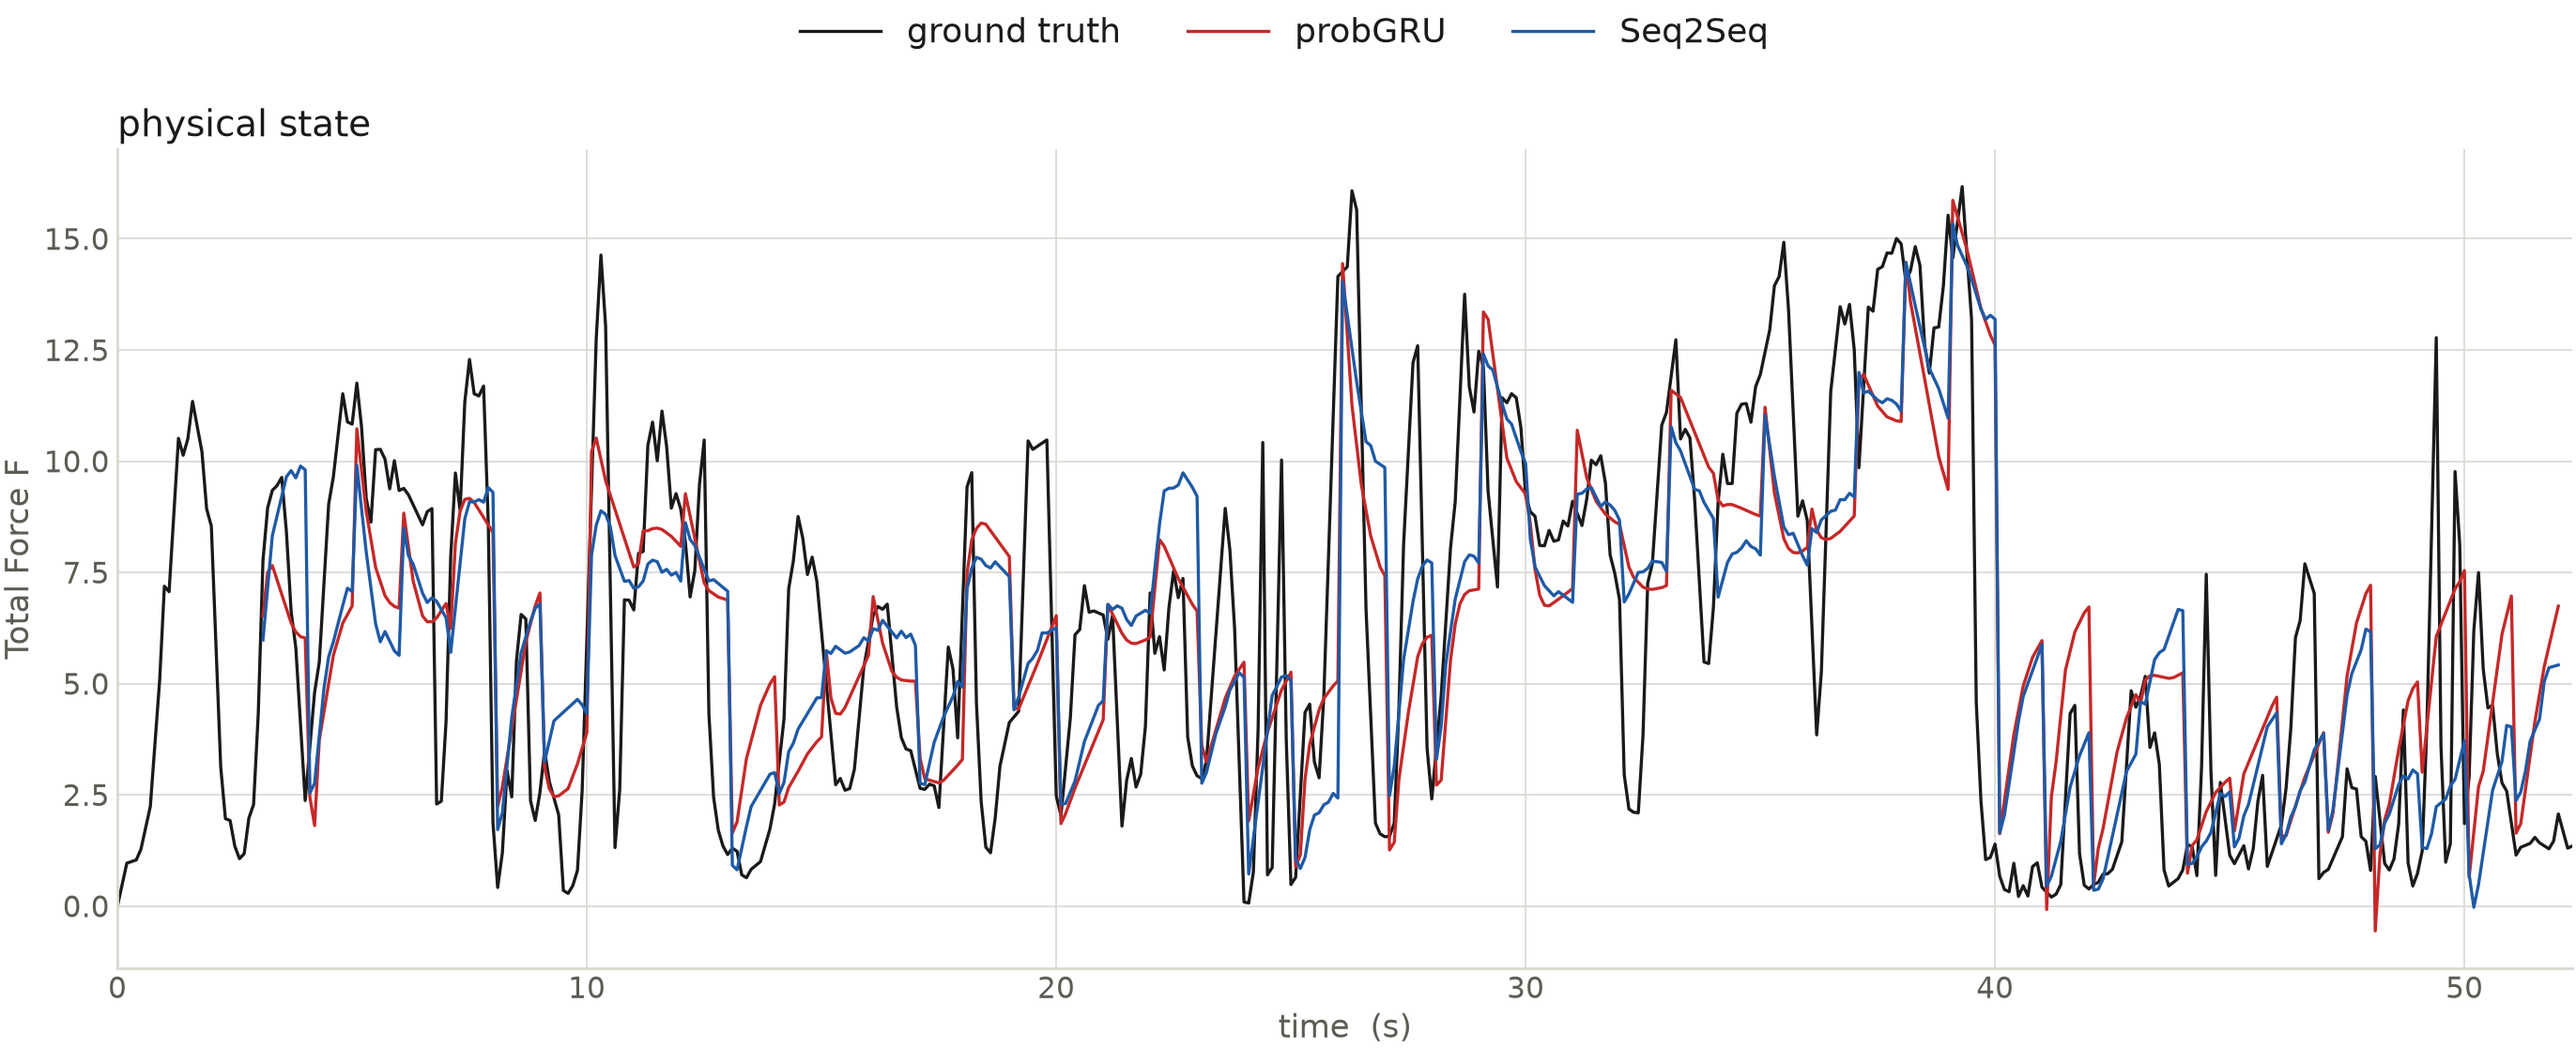
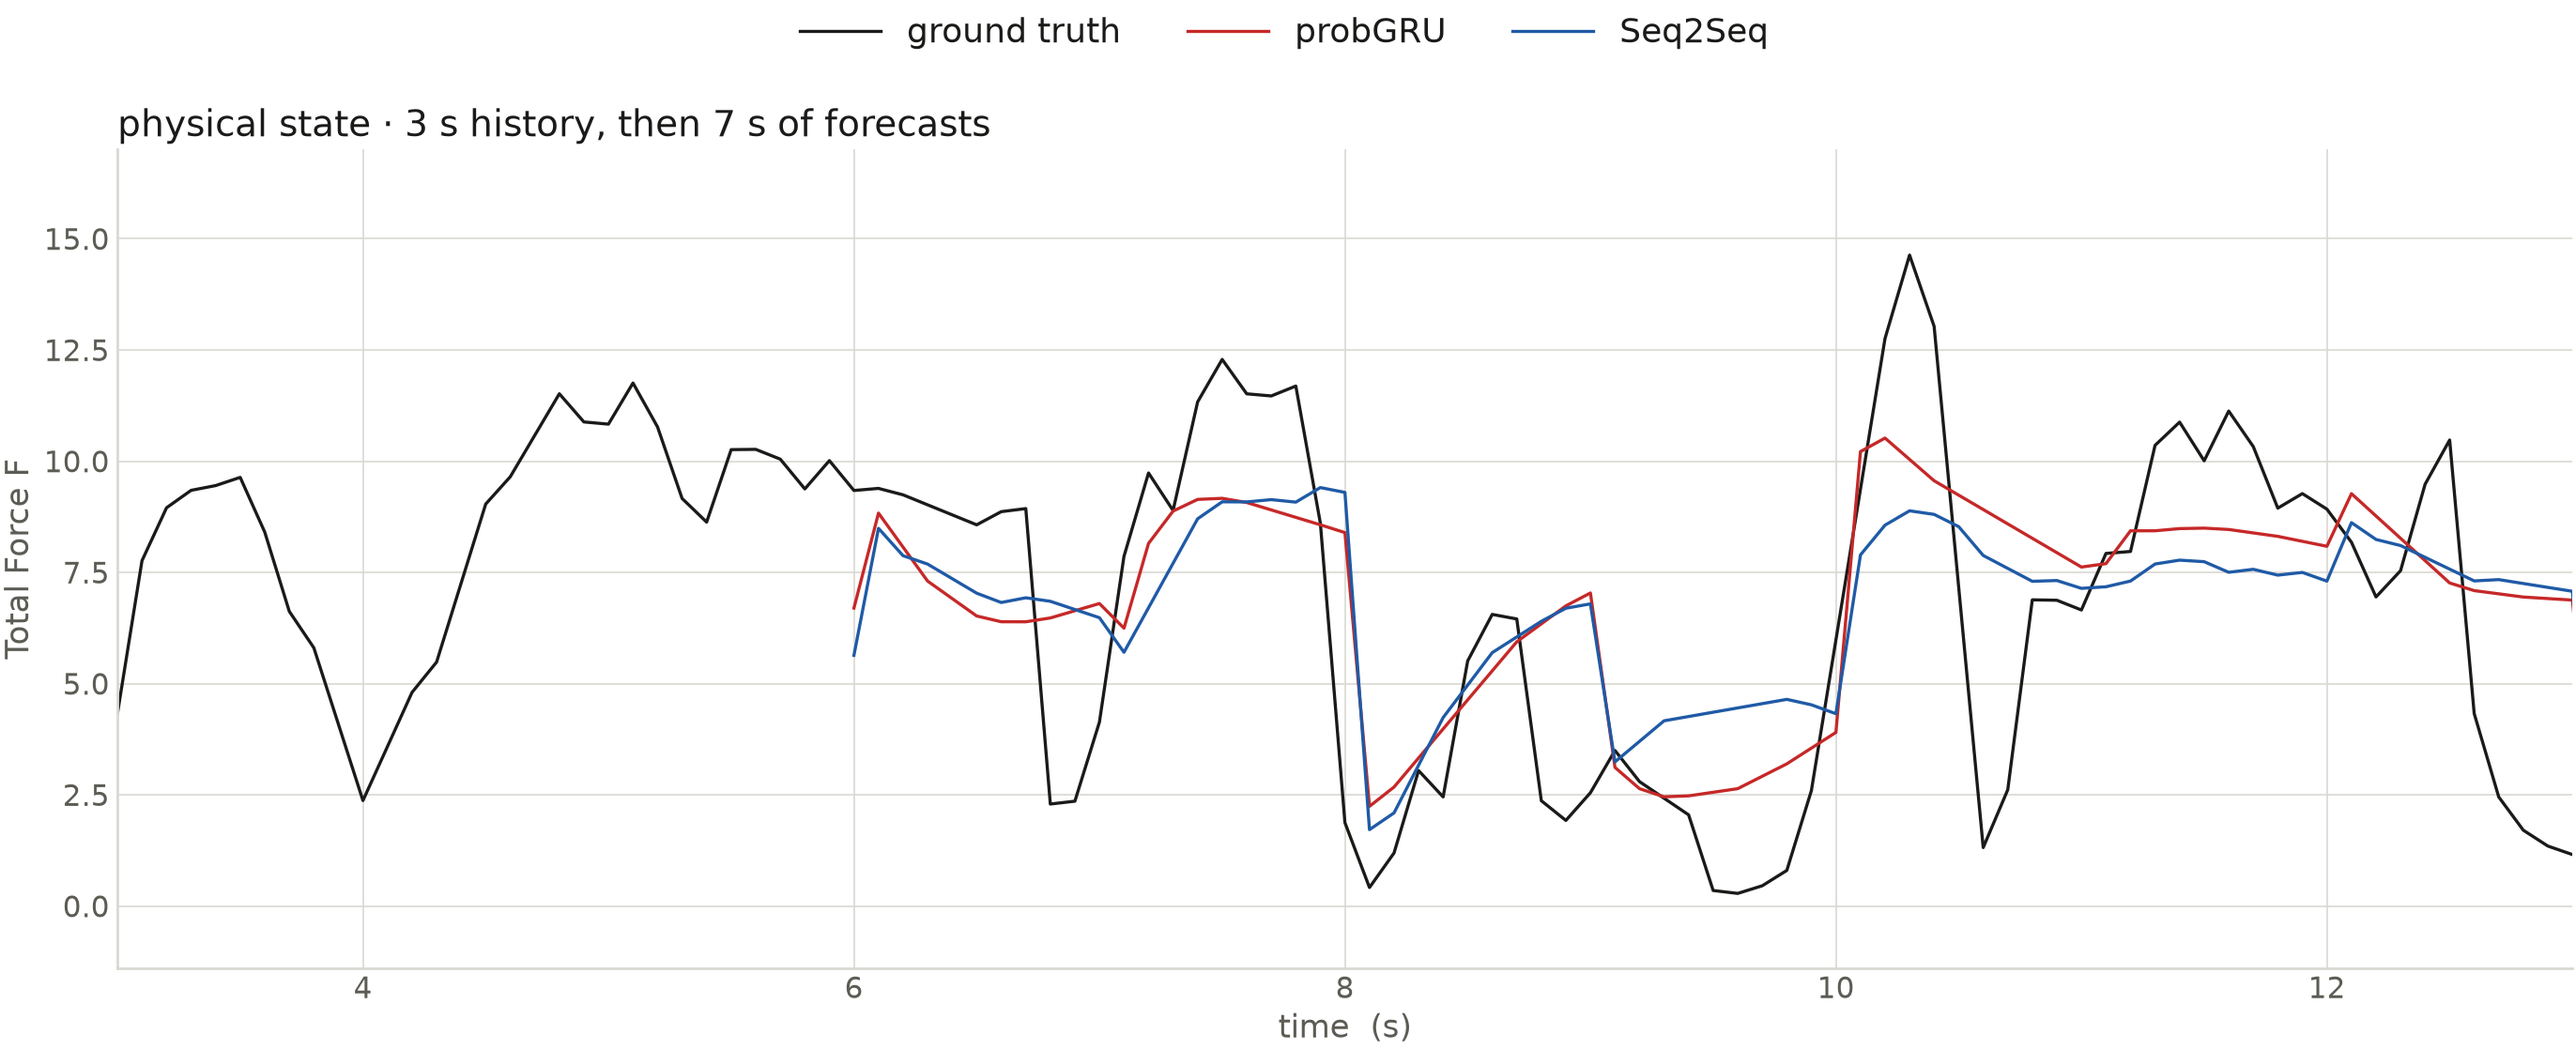
Show the physical-state forecasts over a 3 s history and 7 s of prediction
The enlarged panel now spans 3-13 s of the recording: the truth alone for the
first three seconds, which is the history the models are given, then both
backbones over the remaining seven. --window/--history hold the forecasts back
without touching the truth, and --zoom places such a stretch as a second row under
the full-width row, which is the composite added here.

Drawing is factored into _panel() so the row, the single panel and the composite
share one definition of the styling. The row figure re-renders byte-identical.

The PNGs come from the recovered PDF series, so matplotlib's path simplification
at the original scale is baked in: over a 10 s window one sample in a hundred sits
about half a millimetre off, at spike tips. Rerunning from the npz on CRC is exact.

diff --git a/scripts/plot_backbones_by_input.py b/scripts/plot_backbones_by_input.py
@@ -13,8 +13,13 @@ already names it, so hue is spent where it separates something. probGRU is deep 
 (#C62828) and Seq2Seq deep blue (#1F5AA6), both solid; truth is black.
 The sigma bands are off by default; --bands draws them in each backbone's colour.
 
-Drawing lives in render(), which takes plain (t, value) series, so the figure can be rebuilt from
-any source of those series with exactly this styling.
+--window/--history cut the axis down to one stretch of the recording and hold the forecasts back
+over its first seconds, so the truth alone carries the history the models were given before
+anything is predicted. --zoom puts such a stretch in a second row under the full-width row;
+--only draws a single input large.
+
+Drawing lives in render()/render_with_zoom(), which take plain (t, value) series, so a figure can
+be rebuilt from any source of those series with exactly this styling.
 """
 from __future__ import annotations
 
@@ -35,61 +40,103 @@ PG_COLOR, S2S_COLOR = "#C62828", "#1F5AA6"
 # Thin throughout: at 7.16 in the three panels hold ~500 points each, and at 0.9-1.0 pt the
 # forecasts merged into a band over the truth.
 LW_TRUTH, LW_S2S, LW_PG, LW_GRID, LW_SPINE = 0.6, 0.6, 0.6, 0.3, 0.5
+# Reserve a fixed ~0.18 in for the legend rather than a fixed fraction: a fraction tuned for
+# the 2.15 in row left a wide gap above a taller figure. 0.18275 in is exactly the 0.915 the
+# row figure was drawn with, so that figure is unchanged.
+LEGEND_IN = 0.18275
 
 
-def render(panels, tmax, out, height=2.15, bands=False):
-    """panels: one dict per input, keys `title`, `truth`, and optionally `s2s` / `pg`, each a
-    tuple (t, value) or (t, value, sigma)."""
-    import matplotlib
-    matplotlib.use("Agg")
-    import matplotlib.pyplot as plt
+def _draw(ax, series, color, lw, z, bands, tmin=None):
+    """One series, optionally withheld before tmin -- the stretch shown as history only."""
+    t, v = np.asarray(series[0]), np.asarray(series[1])
+    sig = np.asarray(series[2]) if len(series) > 2 else None
+    if tmin is not None:
+        m = t >= tmin
+        t, v = t[m], v[m]
+        sig = sig[m] if sig is not None else None
+    if bands and sig is not None:
+        ax.fill_between(t, v - 2 * sig, v + 2 * sig, color=color, alpha=0.18, lw=0,
+                        zorder=z - 1)
+    ax.plot(t, v, "-", color=color, lw=lw, zorder=z)
+
+
+def _panel(ax, p, xlim, show_ylabel, bands):
+    """panel dict: `title`, `truth`, optional `s2s` / `pg`, optional `forecast_from`."""
+    start = p.get("forecast_from")
+    _draw(ax, p["truth"], TRUTH, LW_TRUTH, 2, False)
+    if p.get("pg") is not None:
+        _draw(ax, p["pg"], PG_COLOR, LW_PG, 5, bands, start)
+    if p.get("s2s") is not None:
+        _draw(ax, p["s2s"], S2S_COLOR, LW_S2S, 6, bands, start)
+    ax.set_title(p["title"], fontsize=PT_TITLE, color=INK, loc="left", pad=2.5)
+    ax.set_xlabel("time  (s)", fontsize=PT_LABEL, color=MUTED, labelpad=1.5)
+    if show_ylabel:
+        ax.set_ylabel("Total Force F", fontsize=PT_LABEL, color=MUTED, labelpad=1.5)
+    ax.tick_params(colors=MUTED, labelsize=PT_TICK, length=0, pad=1.5)
+    ax.grid(color=GRID, lw=LW_GRID, zorder=0)
+    ax.set_axisbelow(True)
+    for sp in ("top", "right"):
+        ax.spines[sp].set_visible(False)
+    for sp in ("bottom", "left"):
+        ax.spines[sp].set_color(GRID)
+        ax.spines[sp].set_linewidth(LW_SPINE)
+    ax.set_xlim(*xlim)
+
+
+def _legend(fig):
     from matplotlib.lines import Line2D
-
-    def draw(ax, series, color, lw, z):
-        t, v = np.asarray(series[0]), np.asarray(series[1])
-        sig = series[2] if len(series) > 2 else None
-        if bands and sig is not None:
-            sig = np.asarray(sig)
-            ax.fill_between(t, v - 2 * sig, v + 2 * sig, color=color, alpha=0.18, lw=0,
-                            zorder=z - 1)
-        ax.plot(t, v, "-", color=color, lw=lw, zorder=z)
-
-    fig, axes = plt.subplots(1, len(panels), figsize=(PAPER_W, height), sharex=True,
-                             sharey=True)
-    for c, (ax, p) in enumerate(zip(np.atleast_1d(axes), panels)):
-        draw(ax, p["truth"], TRUTH, LW_TRUTH, 2)
-        if p.get("pg") is not None:
-            draw(ax, p["pg"], PG_COLOR, LW_PG, 5)
-        if p.get("s2s") is not None:
-            draw(ax, p["s2s"], S2S_COLOR, LW_S2S, 6)
-        ax.set_title(p["title"], fontsize=PT_TITLE, color=INK, loc="left", pad=2.5)
-        ax.set_xlabel("time  (s)", fontsize=PT_LABEL, color=MUTED, labelpad=1.5)
-        if c == 0:
-            ax.set_ylabel("Total Force F", fontsize=PT_LABEL, color=MUTED, labelpad=1.5)
-        ax.tick_params(colors=MUTED, labelsize=PT_TICK, length=0, pad=1.5)
-        ax.grid(color=GRID, lw=LW_GRID, zorder=0)
-        ax.set_axisbelow(True)
-        for sp in ("top", "right"):
-            ax.spines[sp].set_visible(False)
-        for sp in ("bottom", "left"):
-            ax.spines[sp].set_color(GRID)
-            ax.spines[sp].set_linewidth(LW_SPINE)
-        ax.set_xlim(0, tmax)
-
     handles = [Line2D([], [], color=TRUTH, lw=LW_TRUTH, label="ground truth"),
                Line2D([], [], color=PG_COLOR, lw=LW_PG, label="probGRU"),
                Line2D([], [], color=S2S_COLOR, lw=LW_S2S, label="Seq2Seq")]
-    # Reserve a fixed ~0.18 in for the legend rather than a fixed fraction: a fraction tuned for
-    # the 2.15 in row left a wide gap above a taller single panel. 0.18275 in is exactly the
-    # 0.915 the row figure was drawn with, so that figure is unchanged.
-    fig.tight_layout(rect=(0, 0, 1, 1 - 0.18275 / height), w_pad=0.8)
     fig.legend(handles=handles, frameon=False, fontsize=PT_LEGEND, labelcolor=INK,
                ncols=len(handles), loc="upper center", bbox_to_anchor=(0.5, 0.995),
                handlelength=2.4)
+
+
+def _save(fig, out, height):
     os.makedirs(os.path.dirname(out) or ".", exist_ok=True)
     fig.savefig(out, dpi=400, facecolor="white", bbox_inches="tight", pad_inches=0.01)
-    plt.close(fig)
     print(f"[done] {out}  ({PAPER_W}x{height} in)")
+
+
+def render(panels, xlim, out, height=2.15, bands=False):
+    """One row of panels on a shared axis. xlim is (t0, t1), or a bare t1."""
+    import matplotlib
+    matplotlib.use("Agg")
+    import matplotlib.pyplot as plt
+
+    if not isinstance(xlim, (tuple, list)):
+        xlim = (0, xlim)
+    fig, axes = plt.subplots(1, len(panels), figsize=(PAPER_W, height), sharex=True,
+                             sharey=True)
+    for c, (ax, p) in enumerate(zip(np.atleast_1d(axes), panels)):
+        _panel(ax, p, xlim, c == 0, bands)
+    fig.tight_layout(rect=(0, 0, 1, 1 - LEGEND_IN / height), w_pad=0.8)
+    _legend(fig)
+    _save(fig, out, height)
+    plt.close(fig)
+
+
+def render_with_zoom(panels, xlim, zoom, zoom_xlim, out, height=4.0, bands=False):
+    """The row above, and one of its panels enlarged across the full width below."""
+    import matplotlib
+    matplotlib.use("Agg")
+    import matplotlib.pyplot as plt
+
+    fig = plt.figure(figsize=(PAPER_W, height))
+    gs = fig.add_gridspec(2, len(panels), height_ratios=[1.0, 0.95])
+    top = None
+    for c, p in enumerate(panels):
+        ax = fig.add_subplot(gs[0, c], sharey=top)
+        top = top or ax
+        _panel(ax, p, xlim, c == 0, bands)
+        if c:
+            ax.tick_params(labelleft=False)
+    _panel(fig.add_subplot(gs[1, :]), zoom, zoom_xlim, True, bands)
+    fig.tight_layout(rect=(0, 0, 1, 1 - LEGEND_IN / height), w_pad=0.8, h_pad=1.2)
+    _legend(fig)
+    _save(fig, out, height)
+    plt.close(fig)
 
 
 def main():
@@ -102,9 +149,15 @@ def main():
     ap.add_argument("--seconds", type=float, default=None,
                     help="plot only the first N seconds (clamped to the recording)")
     ap.add_argument("--bands", action="store_true", help="draw ±2σ for both backbones")
-    ap.add_argument("--height", type=float, default=2.15, help="figure height, inches")
+    ap.add_argument("--height", type=float, default=None, help="figure height, inches")
     ap.add_argument("--only", choices=["aggregate", "flatten", "cnn"], default=None,
                     help="draw a single input as one large panel (aggregate = physical state)")
+    ap.add_argument("--window", type=float, nargs=2, metavar=("T0", "T1"),
+                    help="restrict the axis to this stretch of the recording")
+    ap.add_argument("--history", type=float, default=0.0,
+                    help="with --window: seconds at its start showing the truth alone")
+    ap.add_argument("--zoom", type=float, nargs=3, metavar=("T0", "T1", "HISTORY"),
+                    help="add a second row enlarging the first panel over this window")
     a = ap.parse_args()
 
     layout = LAYOUTS[a.dataset]
@@ -141,7 +194,20 @@ def main():
         panels.append(dict(title=cell[2], truth=(tt, y[:, k]),
                            s2s=series(s2s[0] if s2s else None),
                            pg=series(pg[0] if pg else None)))
-    render(panels, tmax, a.out, height=a.height, bands=a.bands)
+
+    if a.zoom:
+        t0, t1, hist = a.zoom
+        zoom = dict(panels[0], forecast_from=t0 + hist,
+                    title=f"{panels[0]['title']} · {hist:g} s history, then "
+                          f"{t1 - t0 - hist:g} s of forecasts")
+        render_with_zoom(panels, (0, tmax), zoom, (t0, t1), a.out,
+                         height=a.height or 4.0, bands=a.bands)
+    elif a.window:
+        t0, t1 = a.window
+        panels = [dict(p, forecast_from=t0 + a.history) for p in panels]
+        render(panels, (t0, t1), a.out, height=a.height or 2.15, bands=a.bands)
+    else:
+        render(panels, (0, tmax), a.out, height=a.height or 2.15, bands=a.bands)
 
 
 if __name__ == "__main__":
